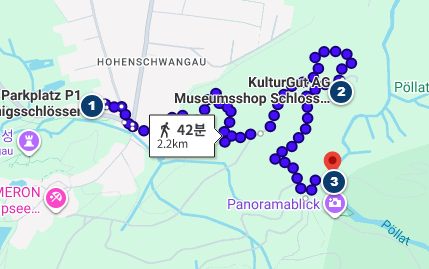
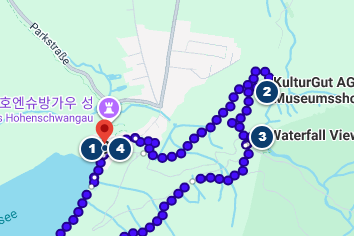
Fix marker/route-step count mismatches for Heidelberg, München, Neuschwanstein
Heidelberg's walk-map-link secretly routed through 5 waypoints while
the visible route-steps list only shows 4 (Marktplatz and
Heiliggeistkirche are combined into one line), so the map rendered a
7th marker with nothing in the panel to match it. Dropped the
redundant waypoint from the screenshot so markers 1-6 line up with
the 6 visible stops.

München's walk-map-link and screenshot both carried 11 raw waypoints
left over from an earlier draft, while the finalized route-steps
list only names 8 stops (10 points total) - re-geocoded each named
landmark via live Google Maps directions and rebuilt both the link
and the map with the correct 10-point sequence.

Neuschwanstein's origin/waypoint/destination fields were assembled
inconsistently (destination held the bridge, not a return to
parking), and the parking coordinate itself was ~400m off (pointing
near the ticket center rather than the P1-P4 lot). Re-geocoded and
restructured as a proper 4-point loop (parking -> castle -> bridge ->
parking) to match the route-steps list, and corrected the parking
coordinate everywhere it's referenced (driving directions, walking
link, ascent link).

diff --git a/germany-roadtrip-planner.html b/germany-roadtrip-planner.html
@@ -1503,7 +1503,7 @@ document.addEventListener('DOMContentLoaded', function(){
       <p class="city-label">뮌헨</p>
       <p class="walk-map-note">🚗 알리안츠 아레나→뮌헨 시내 약 13km·19분(P+R Heimeranplatz까지는 15.7km·25분) · <a href="https://www.google.com/maps/dir/?api=1&travelmode=driving&origin=48.2188,11.6236&destination=48.1312,11.5320" target="_blank" rel="noopener">Google 지도로 길찾기</a> · <a href="https://www.google.com/maps/search/?api=1&query=P%2BR+Heimeranplatz+Muenchen" target="_blank" rel="noopener">주차장 위치 보기</a><br>🅿 뮌헨 시내: 옥토버페스트 기간엔 구시가 직접 주차가 매우 어려워 시 외곽 P+R 후 지하철(U4/U5) 이용 권장(P+R 연계 할인 요금 있음)<br>정확한 금액은 현장 자판기·MVV 앱에서 확인<br>🎫 티켓은 역 구내 자판기(현금·카드 모두 가능) 또는 MVV go 앱에서 구매<br>🚇 P+R에서 U-Bahn Heimeranplatz역까지 도보 1분 → Heimeranplatz→마리엔광장 U4/U5로 5정거장·약 10분<br>🔙 돌아올 땐 호프브로이하우스(마지막 코스)에서 마리엔광장역까지 도보 약 5분 → 마리엔광장→Heimeranplatz U4/U5로 5정거장·약 10분</p>
       <p class="walk-map-note">뮌헨 구시가 가볼 만한 곳(아래 카드)은 모두 도보권이지만, 실제 최적 도보 순서는 카드 나열 순서와 다르니 아래 지도·route-steps 목록을 따라가세요</p>
-      <a class="walk-map-link" href="https://www.google.com/maps/dir/?api=1&travelmode=walking&origin=48.1371,11.5754&destination=48.1371,11.5754&waypoints=48.1365%2C11.576%7C48.1368%2C11.5771%7C48.1386%2C11.5736%7C48.1389%2C11.5704%7C48.1352%2C11.5695%7C48.1343%2C11.5723%7C48.1352%2C11.5726%7C48.1351%2C11.5755%7C48.1408%2C11.5776%7C48.142%2C11.5766%7C48.1427,11.5805" target="_blank" rel="noopener">📍 Google 지도로 도보 코스 보기(마리엔광장역 출발·도착) · 총 약 4.7km · 도보 약 1시간 3분</a>
+      <a class="walk-map-link" href="https://www.google.com/maps/dir/?api=1&travelmode=walking&origin=48.1370,11.5758&destination=48.1370,11.5758&waypoints=48.1367%2C11.5756%7C48.1374%2C11.5761%7C48.1387%2C11.5730%7C48.1387%2C11.5703%7C48.1351%2C11.5697%7C48.1355%2C11.5764%7C48.1422%2C11.5767%7C48.1428,11.5800" target="_blank" rel="noopener">📍 Google 지도로 도보 코스 보기(마리엔광장역 출발·도착) · 총 약 4.7km · 도보 약 1시간 3분</a>
       <div class="route-snapshot">
         <div class="route-snapshot-media">
           <img src="images/routes/muenchen.png" alt="뮌헨 도보 코스 지도 스냅샷" loading="lazy">
@@ -1761,9 +1761,9 @@ document.addEventListener('DOMContentLoaded', function(){
       <div class="sight-list">
         <h4>가볼 만한 곳</h4>
       <p class="city-label">호엔슈방가우</p>
-      <p class="walk-map-note">🚗 숙소(퓌센)→호엔슈방가우 약 4.4km·7분 · <a href="https://www.google.com/maps/dir/?api=1&travelmode=driving&origin=47.57,10.70&destination=47.5572,10.7390" target="_blank" rel="noopener">Google 지도로 길찾기</a><br>🅿 주차장(P1~P4) · 유료(승용차 6시간 €12, 이후 시간당 €1) · <a href="https://www.google.com/maps/search/?api=1&query=Parkplatz+Koenigsschloesser+P1+Hohenschwangau" target="_blank" rel="noopener">주차장 위치 보기</a></p>
+      <p class="walk-map-note">🚗 숙소(퓌센)→호엔슈방가우 약 4.4km·7분 · <a href="https://www.google.com/maps/dir/?api=1&travelmode=driving&origin=47.57,10.70&destination=47.5543,10.7360" target="_blank" rel="noopener">Google 지도로 길찾기</a><br>🅿 주차장(P1~P4) · 유료(승용차 6시간 €12, 이후 시간당 €1) · <a href="https://www.google.com/maps/search/?api=1&query=Parkplatz+Koenigsschloesser+P1+Hohenschwangau" target="_blank" rel="noopener">주차장 위치 보기</a></p>
       <p class="walk-map-note">📍 도보 순서: 주차장(P1~P4) → 노이슈반슈타인 성(약 40분, 아침엔 시간 없어 호엔슈방가우 성은 패스) → [투어 후 하산 없이 더 위로] → 마리엔 다리(편도 10~15분) → <b>왔던 길 그대로 되짚어 하산</b>(하산길에 호엔슈방가우 성 외관 들러 사진) → 주차장. 아래 링크는 편도(주차장→마리엔 다리) 기준이며, 돌아올 땐 같은 길을 반대로 걸으면 됩니다 — Google이 "왕복" 경로를 억지로 만들면 알프제 호수를 크게 도는 잘못된 길을 제시해서 편도로 안내합니다.</p>
-      <a class="walk-map-link" href="https://www.google.com/maps/dir/?api=1&travelmode=walking&origin=47.5572,10.7390&destination=47.5550,10.7494&waypoints=47.5576,10.7497" target="_blank" rel="noopener">📍 Google 지도로 도보 코스 보기(링크는 편도만 표시, 왕복은 같은 길로 되짚기) · 총 약 4.4km · 도보 약 1시간 27분(오르막 40분+12분, 내리막 약 35분)</a>
+      <a class="walk-map-link" href="https://www.google.com/maps/dir/?api=1&travelmode=walking&origin=47.5543,10.7360&destination=47.5550,10.7494&waypoints=47.5576,10.7497" target="_blank" rel="noopener">📍 Google 지도로 도보 코스 보기(링크는 편도만 표시, 왕복은 같은 길로 되짚기) · 총 약 4.4km · 도보 약 1시간 27분(오르막 40분+12분, 내리막 약 35분)</a>
       <div class="route-snapshot">
         <div class="route-snapshot-media">
           <img src="images/routes/neuschwanstein.png" alt="노이슈반슈타인 성 도보 코스 지도 스냅샷" loading="lazy">
@@ -1805,7 +1805,7 @@ document.addEventListener('DOMContentLoaded', function(){
         </div>
         <div class="plan-step">
           <div class="plan-time">08:15</div>
-          <div class="plan-body"><p class="plan-event">도보로 성 방면 출발</p><p class="plan-detail">약 1.5km · 고도 약 155m 상승(평균 경사 약 10%, 급경사 구간 최대 15%↑) · 편한 신발 필수 — <a href="https://www.google.com/maps/dir/?api=1&travelmode=walking&origin=47.5572,10.7390&destination=47.5576,10.7497" target="_blank" rel="noopener">Google 지도로 경로 보기</a></p></div>
+          <div class="plan-body"><p class="plan-event">도보로 성 방면 출발</p><p class="plan-detail">약 1.5km · 고도 약 155m 상승(평균 경사 약 10%, 급경사 구간 최대 15%↑) · 편한 신발 필수 — <a href="https://www.google.com/maps/dir/?api=1&travelmode=walking&origin=47.5543,10.7360&destination=47.5576,10.7497" target="_blank" rel="noopener">Google 지도로 경로 보기</a></p></div>
         </div>
         <div class="plan-step">
           <div class="plan-time">08:55</div>

diff --git a/index.html b/index.html
@@ -1503,7 +1503,7 @@ document.addEventListener('DOMContentLoaded', function(){
       <p class="city-label">뮌헨</p>
       <p class="walk-map-note">🚗 알리안츠 아레나→뮌헨 시내 약 13km·19분(P+R Heimeranplatz까지는 15.7km·25분) · <a href="https://www.google.com/maps/dir/?api=1&travelmode=driving&origin=48.2188,11.6236&destination=48.1312,11.5320" target="_blank" rel="noopener">Google 지도로 길찾기</a> · <a href="https://www.google.com/maps/search/?api=1&query=P%2BR+Heimeranplatz+Muenchen" target="_blank" rel="noopener">주차장 위치 보기</a><br>🅿 뮌헨 시내: 옥토버페스트 기간엔 구시가 직접 주차가 매우 어려워 시 외곽 P+R 후 지하철(U4/U5) 이용 권장(P+R 연계 할인 요금 있음)<br>정확한 금액은 현장 자판기·MVV 앱에서 확인<br>🎫 티켓은 역 구내 자판기(현금·카드 모두 가능) 또는 MVV go 앱에서 구매<br>🚇 P+R에서 U-Bahn Heimeranplatz역까지 도보 1분 → Heimeranplatz→마리엔광장 U4/U5로 5정거장·약 10분<br>🔙 돌아올 땐 호프브로이하우스(마지막 코스)에서 마리엔광장역까지 도보 약 5분 → 마리엔광장→Heimeranplatz U4/U5로 5정거장·약 10분</p>
       <p class="walk-map-note">뮌헨 구시가 가볼 만한 곳(아래 카드)은 모두 도보권이지만, 실제 최적 도보 순서는 카드 나열 순서와 다르니 아래 지도·route-steps 목록을 따라가세요</p>
-      <a class="walk-map-link" href="https://www.google.com/maps/dir/?api=1&travelmode=walking&origin=48.1371,11.5754&destination=48.1371,11.5754&waypoints=48.1365%2C11.576%7C48.1368%2C11.5771%7C48.1386%2C11.5736%7C48.1389%2C11.5704%7C48.1352%2C11.5695%7C48.1343%2C11.5723%7C48.1352%2C11.5726%7C48.1351%2C11.5755%7C48.1408%2C11.5776%7C48.142%2C11.5766%7C48.1427,11.5805" target="_blank" rel="noopener">📍 Google 지도로 도보 코스 보기(마리엔광장역 출발·도착) · 총 약 4.7km · 도보 약 1시간 3분</a>
+      <a class="walk-map-link" href="https://www.google.com/maps/dir/?api=1&travelmode=walking&origin=48.1370,11.5758&destination=48.1370,11.5758&waypoints=48.1367%2C11.5756%7C48.1374%2C11.5761%7C48.1387%2C11.5730%7C48.1387%2C11.5703%7C48.1351%2C11.5697%7C48.1355%2C11.5764%7C48.1422%2C11.5767%7C48.1428,11.5800" target="_blank" rel="noopener">📍 Google 지도로 도보 코스 보기(마리엔광장역 출발·도착) · 총 약 4.7km · 도보 약 1시간 3분</a>
       <div class="route-snapshot">
         <div class="route-snapshot-media">
           <img src="images/routes/muenchen.png" alt="뮌헨 도보 코스 지도 스냅샷" loading="lazy">
@@ -1761,9 +1761,9 @@ document.addEventListener('DOMContentLoaded', function(){
       <div class="sight-list">
         <h4>가볼 만한 곳</h4>
       <p class="city-label">호엔슈방가우</p>
-      <p class="walk-map-note">🚗 숙소(퓌센)→호엔슈방가우 약 4.4km·7분 · <a href="https://www.google.com/maps/dir/?api=1&travelmode=driving&origin=47.57,10.70&destination=47.5572,10.7390" target="_blank" rel="noopener">Google 지도로 길찾기</a><br>🅿 주차장(P1~P4) · 유료(승용차 6시간 €12, 이후 시간당 €1) · <a href="https://www.google.com/maps/search/?api=1&query=Parkplatz+Koenigsschloesser+P1+Hohenschwangau" target="_blank" rel="noopener">주차장 위치 보기</a></p>
+      <p class="walk-map-note">🚗 숙소(퓌센)→호엔슈방가우 약 4.4km·7분 · <a href="https://www.google.com/maps/dir/?api=1&travelmode=driving&origin=47.57,10.70&destination=47.5543,10.7360" target="_blank" rel="noopener">Google 지도로 길찾기</a><br>🅿 주차장(P1~P4) · 유료(승용차 6시간 €12, 이후 시간당 €1) · <a href="https://www.google.com/maps/search/?api=1&query=Parkplatz+Koenigsschloesser+P1+Hohenschwangau" target="_blank" rel="noopener">주차장 위치 보기</a></p>
       <p class="walk-map-note">📍 도보 순서: 주차장(P1~P4) → 노이슈반슈타인 성(약 40분, 아침엔 시간 없어 호엔슈방가우 성은 패스) → [투어 후 하산 없이 더 위로] → 마리엔 다리(편도 10~15분) → <b>왔던 길 그대로 되짚어 하산</b>(하산길에 호엔슈방가우 성 외관 들러 사진) → 주차장. 아래 링크는 편도(주차장→마리엔 다리) 기준이며, 돌아올 땐 같은 길을 반대로 걸으면 됩니다 — Google이 "왕복" 경로를 억지로 만들면 알프제 호수를 크게 도는 잘못된 길을 제시해서 편도로 안내합니다.</p>
-      <a class="walk-map-link" href="https://www.google.com/maps/dir/?api=1&travelmode=walking&origin=47.5572,10.7390&destination=47.5550,10.7494&waypoints=47.5576,10.7497" target="_blank" rel="noopener">📍 Google 지도로 도보 코스 보기(링크는 편도만 표시, 왕복은 같은 길로 되짚기) · 총 약 4.4km · 도보 약 1시간 27분(오르막 40분+12분, 내리막 약 35분)</a>
+      <a class="walk-map-link" href="https://www.google.com/maps/dir/?api=1&travelmode=walking&origin=47.5543,10.7360&destination=47.5550,10.7494&waypoints=47.5576,10.7497" target="_blank" rel="noopener">📍 Google 지도로 도보 코스 보기(링크는 편도만 표시, 왕복은 같은 길로 되짚기) · 총 약 4.4km · 도보 약 1시간 27분(오르막 40분+12분, 내리막 약 35분)</a>
       <div class="route-snapshot">
         <div class="route-snapshot-media">
           <img src="images/routes/neuschwanstein.png" alt="노이슈반슈타인 성 도보 코스 지도 스냅샷" loading="lazy">
@@ -1805,7 +1805,7 @@ document.addEventListener('DOMContentLoaded', function(){
         </div>
         <div class="plan-step">
           <div class="plan-time">08:15</div>
-          <div class="plan-body"><p class="plan-event">도보로 성 방면 출발</p><p class="plan-detail">약 1.5km · 고도 약 155m 상승(평균 경사 약 10%, 급경사 구간 최대 15%↑) · 편한 신발 필수 — <a href="https://www.google.com/maps/dir/?api=1&travelmode=walking&origin=47.5572,10.7390&destination=47.5576,10.7497" target="_blank" rel="noopener">Google 지도로 경로 보기</a></p></div>
+          <div class="plan-body"><p class="plan-event">도보로 성 방면 출발</p><p class="plan-detail">약 1.5km · 고도 약 155m 상승(평균 경사 약 10%, 급경사 구간 최대 15%↑) · 편한 신발 필수 — <a href="https://www.google.com/maps/dir/?api=1&travelmode=walking&origin=47.5543,10.7360&destination=47.5576,10.7497" target="_blank" rel="noopener">Google 지도로 경로 보기</a></p></div>
         </div>
         <div class="plan-step">
           <div class="plan-time">08:55</div>
